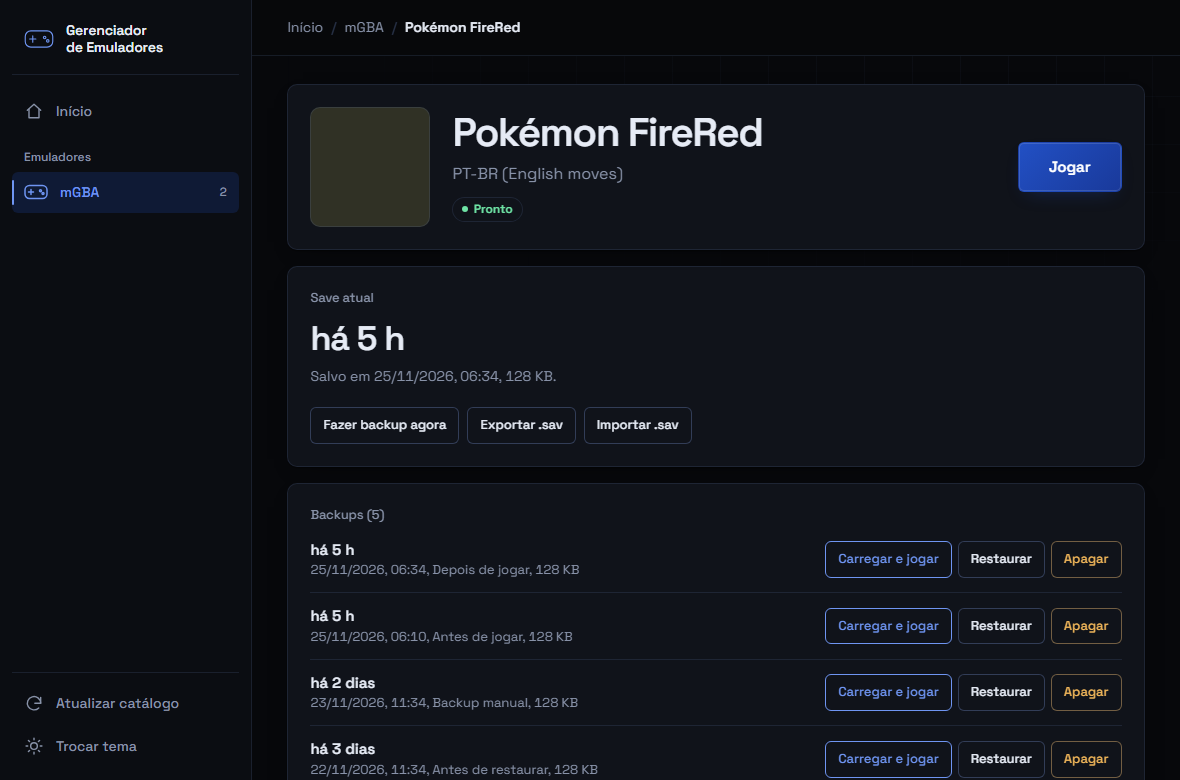
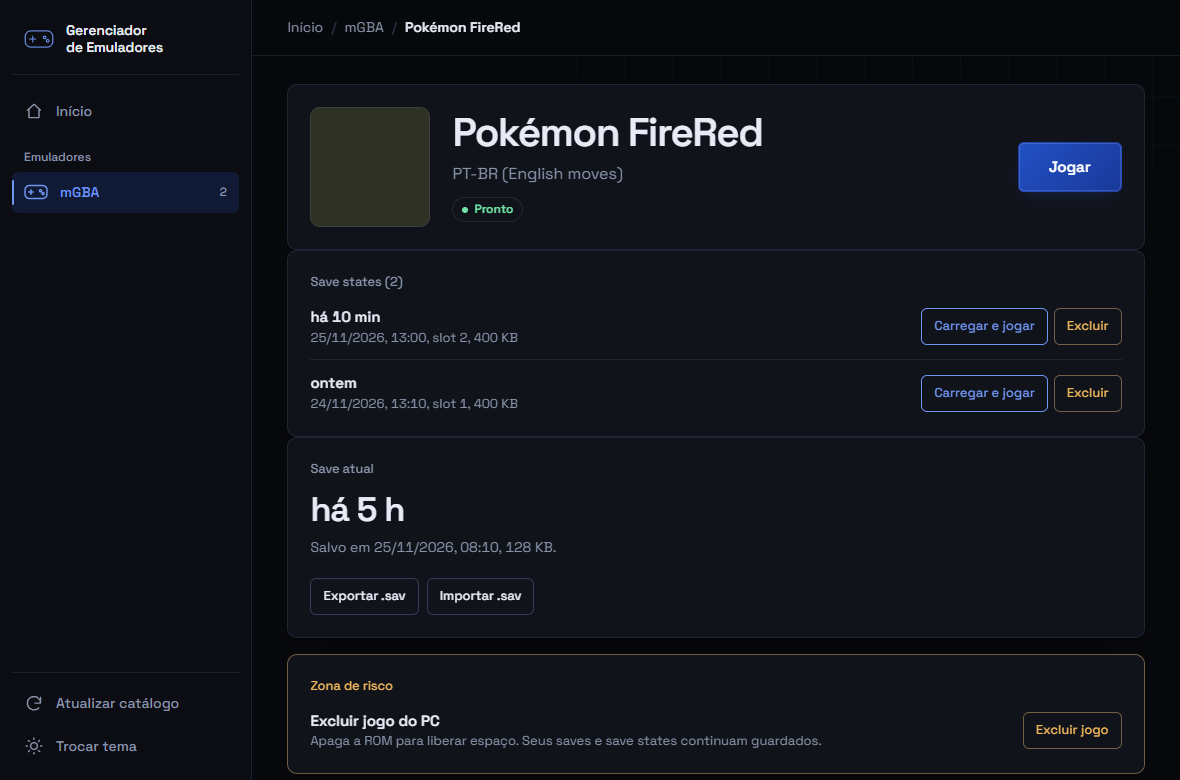
README: telas novas, save states e atualização pelo app
Prints refeitos (início, biblioteca e tela de saves com a lista de save states),
textos de recursos, instalação e catálogo atualizados. catalog.example.json e o
simulador de desenvolvimento ganham os campos/aviso novos.

diff --git a/app/ui/dev/mock-api.js b/app/ui/dev/mock-api.js
@@ -42,6 +42,7 @@
   const playing = new Set();
   window.pywebview = { api: {
     get_library: async () => ({ emulators: [{ id: "mgba", name: "mGBA", platform: "Game Boy Advance", installed, games }] }),
+    check_update: async () => ({ available: params.has("upd"), version: "1.1.6", url: "", can_install: true }),   // ?upd mostra o botão de versão nova
     get_cover: async (id) => { await new Promise((r) => setTimeout(r, 150)); return coverFor(id); },
     get_emulator_icon: async () => null,
     start_download: async (id) => { live[id] = { t0: Date.now() }; return { ok: true }; },
